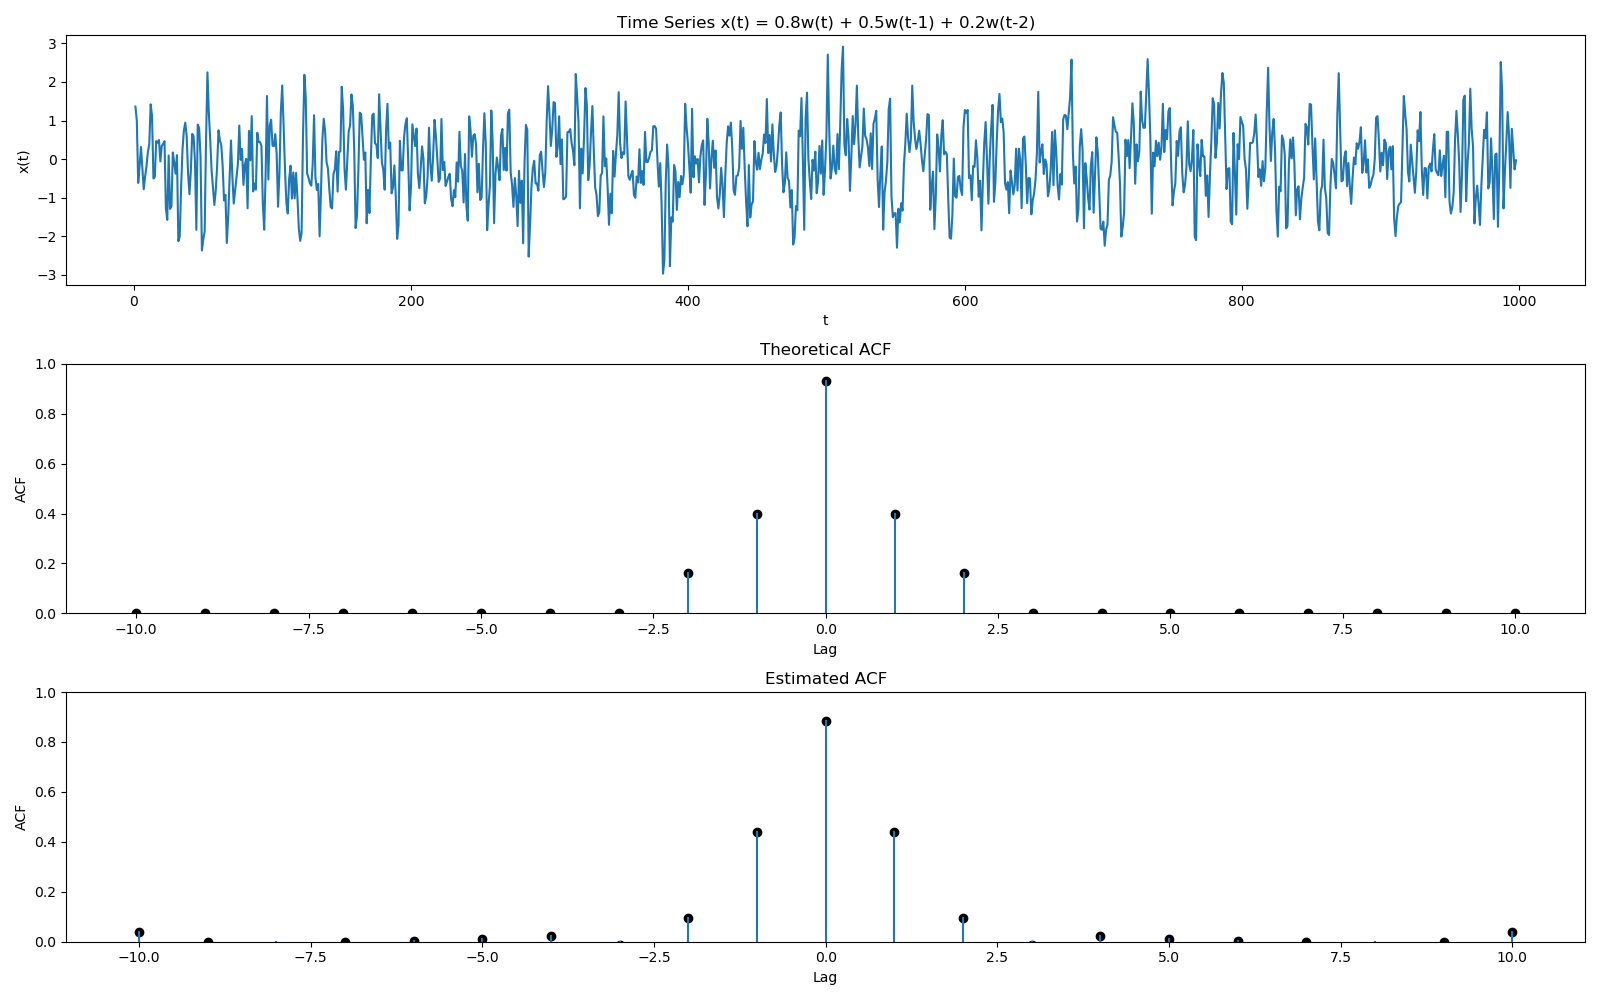
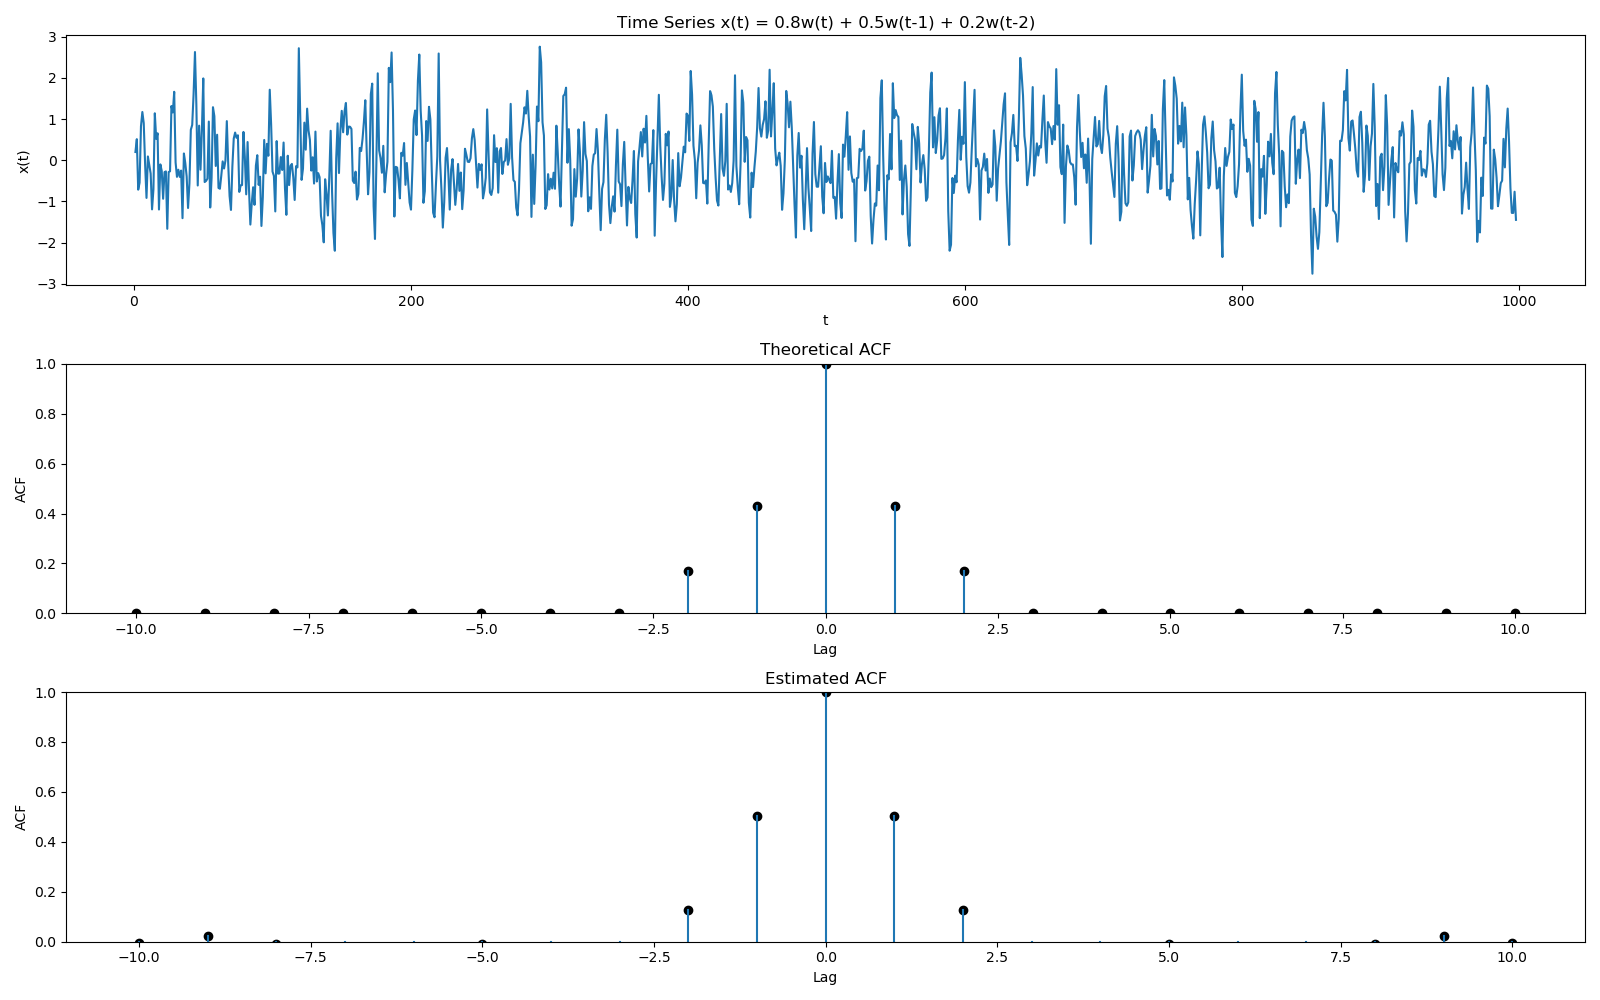
correct acf plots, add backward shift, smoothing in arima

Changed region(s): [[0.0625, 0.062, 0.9688, 0.279], [0.5312, 0.806, 0.5625, 0.837], [0.4688, 0.806, 0.5, 0.837]]

diff --git a/tex_files/time_series/chapters/characteristics/measures.tex b/tex_files/time_series/chapters/characteristics/measures.tex
@@ -41,7 +41,7 @@ For any two time points $s$ and $t$,
 \begin{align*}
     \gamma_{x}(s, t) = E[(x_{s} - \mu_{s})(x_{t} - \mu_{t})]
 \end{align*}
-which is similar to the covariance between the two points. Note that the function is symmetric and $\gamma_{x}(s, t) = \gamma_{x}(t, s)$.\newline
+which is similar to the covariance between the two points. Note that the function is symmetric and $\gamma_{x}(s, t) = \gamma_{x}(t, s)$. The prefix auto before covariance distinguishes it from covariance used in the context of random variables.\newline
 
 The autocovariance is a measure of linear dependence between two points of the same time series. \textbf{For very smooth series, the autcovariance tends to take large values while for choppy series, it tends to take very small values}.\newline
 
@@ -123,7 +123,7 @@ and by differentiating this, we will get the joint density of $x_{t}, x_{s}$ whi
 \end{enumerate}
 Thus, we remove any claims for same probability distributions for values of $k > 2$.\newline
 
-\subsection{Autocovariance and Autocorrelation Function}
+\subsection{Autocovariance and Autocorrelation Function (ACF)}
 The mean of a stationary series is constant. Let it be denoted by $\mu$.\newline
 The autocovariance is only dependent on the difference between the time steps
 \begin{align*}
@@ -135,6 +135,8 @@ The autocorrelation can then be simply defined as
     \rho (h) = \rho(t+h, t) = \frac{\gamma (t+h,t)}{\sqrt{\gamma(t+h, t+h) \gamma(t, t)}} = \frac{\gamma(h)}{\gamma(0)}
 \end{align*}
 The denominator could be simplified because of the fact that the autocovariance is only dependent on the time difference and not the location of the time.\newline
+
+Note that correlation will always be between $[-1,1]$, and by definition of autocorrelation function (ACF), at lag 0, it is always 1. It decreases on either side of 0.
 
 If we check at the stationarity of the moving average of white noise, we quickly notice that the mean is constant (from \ref{mean_fun}) and the autocovariance is only dependent on the difference of the two time steps \eqref{eq:gamma_ma}. Thus the series is stationary (weakly).
 
@@ -187,7 +189,7 @@ denominator used is $n$ instead of $n-h$ to ensure that the resulting covariance
 \begin{figure}[h]
     \includegraphics[scale=0.4]{acf_1}
     \centering
-    \caption {Top figure shows a time series, with the theoretical and estimated ACFs shown by middle and bottom figures respectively. Figures plot using acf\_simulation.py}
+    \caption {Top figure shows a time series, with the theoretical and estimated ACFs shown by middle and bottom figures respectively. Due to the symmetric nature, most packages only plot ACF for positive lags. Figures plot using acf\_simulation.py}
     \label{fig:acf_1} %\ref{fig:acf_1}
 \end{figure}
 \end{document}

diff --git a/tex_files/time_series/chapters/arima/smoothing.tex b/tex_files/time_series/chapters/arima/smoothing.tex
@@ -1,0 +1,31 @@
+\documentclass[../../time_series_notes.tex]{subfiles}
+\begin{document}
+%%%%%%%%%%%%%%%%%%%%%%%%%%%%%%
+\section{Smoothing in Time Series}
+\subsubsection*{Moving Average Smoothing}
+Here we take a moving average of the time series in order to remove some of the noise. This can be handy to observe trends or seasonality in a time series that might otherwise be lost in the noise.
+\begin{align*}
+    M_{t} &= \sum_{i=-k}^{k}a_{i}X_{t+i}\\
+    \text{with} \; \sum_{i=-k}^{k}a_{i} &= 1
+\end{align*}
+which becomes a symmetric filter with $a_{j} = a_{-j}$. All the weights in this equation are positive. The more values we average together, the closer to a flat line the resulting series will become.
+
+\subsubsection*{Kernel Smoothing}
+The idea is similar to above but using a distance based kernel
+\begin{align*}
+    M_{t} &= \sum_{i=1}^{n}w_{i}X_{i}\\
+    w_{i} &= \frac{K(t-i)}{\sum_{j=1}^{n}K(t-j)}\\
+    K(z) &= \frac{1}{\sqrt{2\pi\sigma^{2}}}exp(-\frac{1}{2\sigma^{2}}z^{2}) \; \text{for gaussian kernel}
+\end{align*}
+
+
+\subsubsection*{Lowess or Nearest Neighbor Regression}
+The idea is similar to neares neighbors regression, but here when looking at $k$ neighbors, we consider all the points to the left and right of current point at distance $k/2$. We will use these points to build a regression equation and the prediction will be our $M_{t}$. Clearly, the more neighbors we include in the regression, the smoother will be the fit.
+
+\subsubsection*{Smoothing Splines}
+This approach is very similar to regression splines. The prediction is made as
+\begin{align*}
+    M_{t} = \beta_{0} + \beta_{1}t + \beta_{2}t^{2} + \beta_{3}t^{3}
+\end{align*}
+in the case of a cubic polynomial. The usual approach to solve this would be to first divide the entire data into $k+1$ intervals using $k$ knots (points chosen from the dataset), and fit separate cubic polynomials on each of the intervals, maintaining constraints like continuity and differentiability at the knots. This method gives us the cubic splines.
+\end{document}

diff --git a/tex_files/time_series/chapters/arima/backward_shift.tex b/tex_files/time_series/chapters/arima/backward_shift.tex
@@ -1,0 +1,41 @@
+\documentclass[../../time_series_notes.tex]{subfiles}
+\begin{document}
+%%%%%%%%%%%%%%%%%%%%%%%%%%%%%%
+\section{Backward Shift Operators}
+This is a very useful notation in the analysis of time series, especially ARIMA models. A single backward shift operator denotes the time series with a single lag
+\begin{align*}
+    BX_{t} = X_{t-1}
+\end{align*}
+where $X$ is the random variable denoting the time series. We can recursively apply this operator to get
+\begin{align*}
+    B^{2}X_{t} &= BX_{t-1} = X_{t-2}\\
+    B^{k}X_{t} &= X_{t-k}
+\end{align*}
+
+This operator can be used in time series analysis to create polynomial like functions to convert from one time series to another.
+\begin{align*}
+    X_{t} &= Z_{t} + \theta_{1}Z_{t-1} + \theta_{2}Z_{t-2}\\
+    &= Z_{t} + \theta_{1}BZ_{t} + \theta_{2}B^{2}Z_{t}\\
+    &= (1 + \theta_{1}B + \theta_{2}B^{2})Z_{t}
+\end{align*}
+
+
+An inverse of this operator also exists such that
+\begin{align*}
+    B^{-1}B &= 1\\
+    B^{-1}X_{t-1} &= X_{t}
+\end{align*}
+where $B^{-1}$ is called the \textbf{forward shift operator}.\newline
+
+To make time series analysis easier, it is often the case that we will take difference of successive terms in order to induce the stationarity conditions. We conveniently define the \textbf{Differencing operator} as
+\begin{align*}
+    \nabla X_{t} &= (1-B)X_{t} = X_{t} - X_{t-1}\\
+    \nabla^{2}X_{t} &= (1-B)^{2}X_{t} = (1 - 2B + B^{2})X_{t}\\
+    \nabla^{2}X_{t} &= \nabla(\nabla X_{t}) = \nabla(X_{t} - X_{t-1})\\
+    &= (X_{t} - X_{t-1}) - (X_{t-1} - X_{t-2}) = X_{t} - 2BX_{t} + B^{2}X_{t}\\
+    \nabla^{d}X_{t} &= (1-B)^{d}X_{t} \numberthiseqn\label{eq:eq_arima_1}
+\end{align*}
+which illustrates how we can use the differencing operator to obtain successive differences. Higher powers of this operator can be expanded algebraically using the equation \eqref{eq:eq_arima_1}.
+
+
+\end{document}

diff --git a/tex_files/time_series/codes/acf_simulation.py b/tex_files/time_series/codes/acf_simulation.py
@@ -14,14 +14,16 @@ x = 0.8*w[2:n] + 0.5*w[1:n-1] + 0.2*w[0:n-2]
 # 10 on either side of 0
 """
 the theoretical acf is
-gamma(0) = 1.5, gamma(+-1) = 0.4, gamma(+-2) = 0.16
+gamma(0) = 0.93, gamma(+-1) = 0.4, gamma(+-2) = 0.16
+we get rho by dividing gamma by gamma(0)
+rho(0) = 1, rho(+-1) = 0.43, rho(+-2) = 0.17
 all other lags have 0 acf
 """
 acf_actual_x = np.arange(-10,11)
 acf_actual_y = np.zeros(21)
-acf_actual_y[10] = 0.93
-acf_actual_y[9] = acf_actual_y[11] = 0.4
-acf_actual_y[8] = acf_actual_y[12] = 0.16
+acf_actual_y[10] = 1
+acf_actual_y[9] = acf_actual_y[11] = 0.43
+acf_actual_y[8] = acf_actual_y[12] = 0.17
 
 """
 estimated acf can be calculated using the formula
@@ -31,12 +33,16 @@ and the function is symmetric around 0
 
 acf_est_y = np.zeros(21)
 n = n - 2
-# positive lags
+# calculate gamma for positive lags only
 for i in range(21):
     h = i - 10
     if(h >= 0):
         acf_est_y[i] = (1.0/n) * np.dot(x[0:n-h], x[h:n])
         acf_est_y[10-h] = acf_est_y[i]
+# convert to rho
+rho_0 = acf_est_y[10]
+for i in range(21):
+    acf_est_y[i] /= rho_0
 
 fig, axs = plt.subplots(3,1, figsize=(16,10))
 # plot the time series

diff --git a/tex_files/time_series/time_series_notes.tex b/tex_files/time_series/time_series_notes.tex
@@ -61,4 +61,8 @@
         \subfile{chapters/characteristics/measures}
         \subfile{chapters/characteristics/exercises}
     %%%%%%%%%%%%%%%%%%%%%%%%%%%%%%%%%%%%%%%%%%%%%%%%%%
+    \chapter{ARIMA Models}
+        \subfile{chapters/arima/backward_shift}
+        \subfile{chapters/arima/smoothing}
+    %%%%%%%%%%%%%%%%%%%%%%%%%%%%%%%%%%%%%%%%%%%%%%%%%%
 \end{document}
